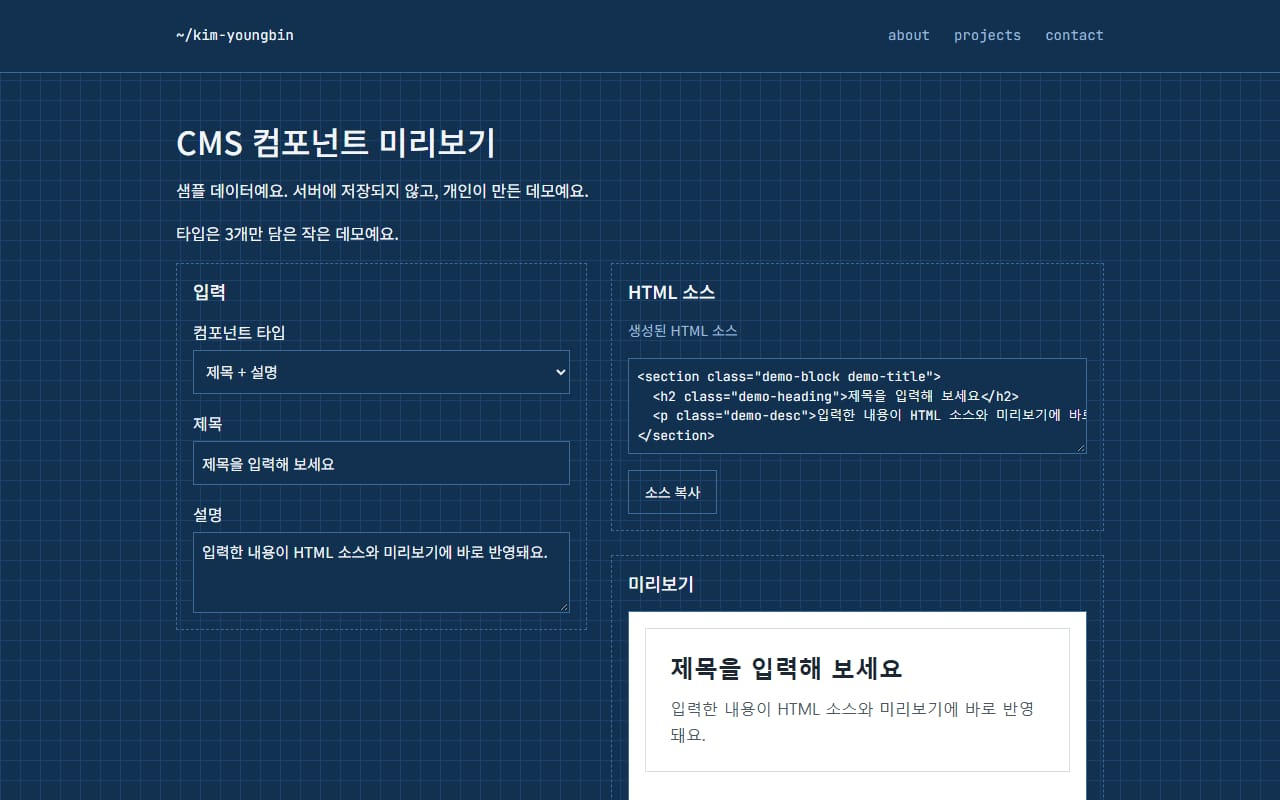
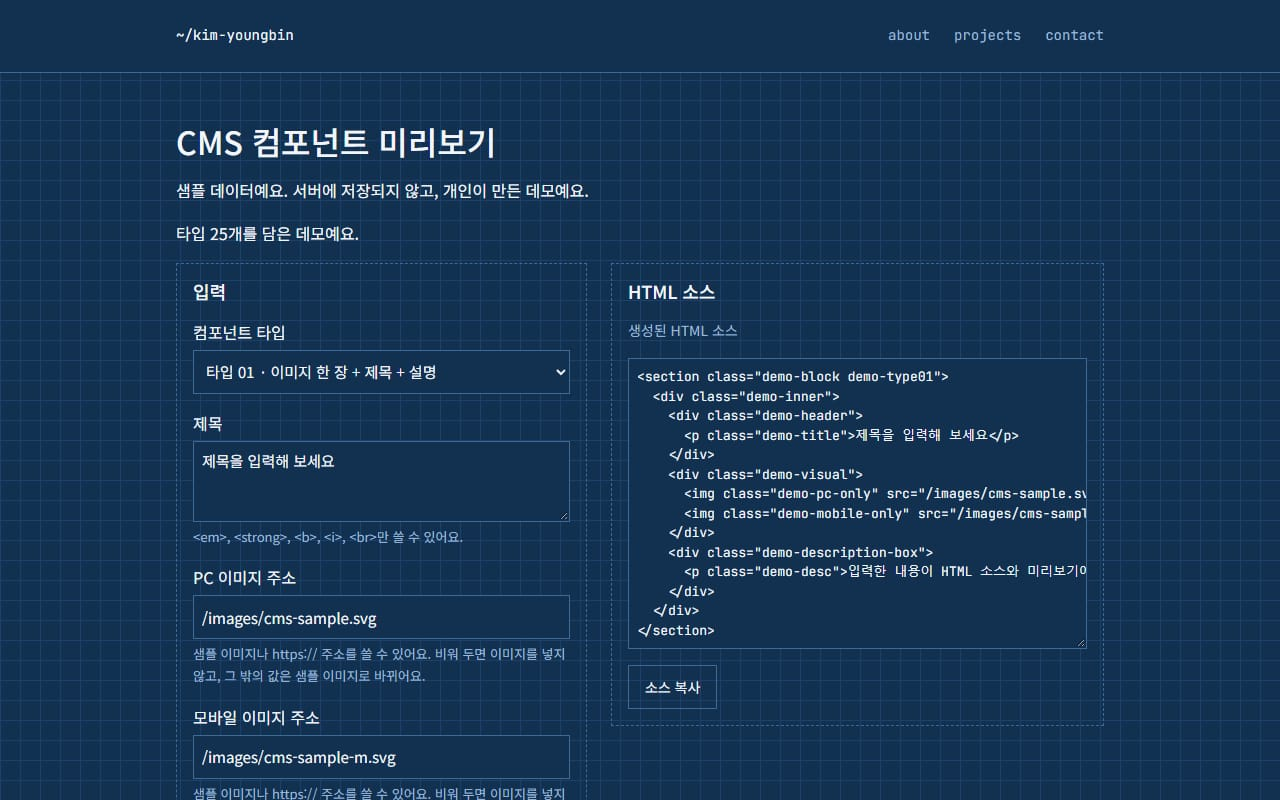
docs: update CMS demo wording for 25 types

diff --git a/app/cms-preview/page.tsx b/app/cms-preview/page.tsx
@@ -21,7 +21,7 @@ export default function CmsPreviewPage() {
     >
       <h1>CMS 컴포넌트 미리보기</h1>
       <p>샘플 데이터예요. 서버에 저장되지 않고, 개인이 만든 데모예요.</p>
-      <p>타입을 하나씩 늘려 가는 중인 데모예요.</p>
+      <p>타입 25개를 담은 데모예요.</p>
       <CmsPreview />
       <Link href="/">처음으로 돌아가기</Link>
     </main>

diff --git a/docs/decisions.md b/docs/decisions.md
@@ -101,3 +101,13 @@
 - **선택**: 이 사이트 안의 데모 두 개(`/cms-preview`, `/qa-dashboard`)는 로컬 프로덕션 빌드에서, 나머지 두 개(콘텐츠 발행 체크리스트, 접근성 마크업 점검기)는 각 공개 주소에서 1280×800으로 캡처해 JPEG(37~103KB)로 줄였어요. 대체 텍스트는 실제로 찍힌 화면을 보고 썼어요.
 - **확인**: 카드 8개 모두 이미지가 로드되고(320/1280px), 가로 넘침이 없어요.
 - **알게 된 것**: 콘텐츠 발행 체크리스트 도구의 큰 제목이 1280px에서 "체크리스"/"트"로 한 글자만 줄바꿈돼요(해당 도구 자체의 레이아웃). 점검 스크립트의 콘솔 "오류 4건"은 Next가 넣은 CSS preload 경고였고 사용자 화면에는 영향이 없어요.
+
+## 2026-10-14 CMS 컴포넌트 데모를 타입 25개로 확장
+
+- **무엇을**: `/cms-preview`를 원본 CMS 도구의 타입 25개(01~07, 09~26)를 담은 데모로 바꿨어요. 입력을 정의한 데이터(필드 종류: 글, 본문, 이미지, 선택, 반복 목록, 표)를 읽어 폼을 그리는 편집기 하나가 모든 타입을 맡고, 타입마다 "입력 정의 + 기본값 + 화면 + 레이아웃 CSS"를 한 파일에 둬요(`lib/cms/types/typeNN.tsx`).
+- **원본에서 가져온 것과 가져오지 않은 것**: 가져온 건 타입별 **입력 항목, 반복 구조, 선택 변형, 요소 중첩 구조**뿐이에요. 원본의 CSS, 클래스 이름, 문구, 이미지 주소, SVG 도형 경로, Supabase, 메뉴 관리자, 이미지 업로드, 타입 27·28은 가져오지 않았어요. 클래스는 `demo-`로, CSS와 문구는 새로 썼고, 도형(오각형, 육각형, 체크)은 CSS로 새로 그렸어요. 원본 소스는 저장소에 복사하지 않았고 읽기만 했어요.
+- **안전**: `rich` 필드(제목, 본문)만 HTML을 받고 항상 허용 태그(`em`, `strong`, `b`, `i`, `br`)만 남겨요. 나머지 값은 React가 이스케이프해요. 이미지 주소는 이 사이트 경로나 `https://`만 허용하고, 표의 열 너비는 `auto`, 숫자, 숫자+`px/%/rem`만 허용해요. 미리보기는 `sandbox=""`인 iframe이에요. 공격 입력(`<script>`, `onerror`, `javascript:`, `expression()`)을 넣어 브라우저에서 확인했어요.
+- **계획에서 고친 것**: ① 계획대로면 미리보기 iframe이 459px을 넘지 않아 PC 모습을 볼 수 없었어요. 미리보기를 두 열 아래 전체 폭으로 옮기고 "PC / 모바일(360px)" 전환을 넣었어요. ② React 19가 `<img>`가 있으면 렌더 결과 앞에 `<link rel="preload">`를 붙여서 복사하는 소스에 섞였어요. 테스트를 먼저 쓰고 앞쪽 `<link>`만 떼어 냈어요. ③ 선택 변형 중 03, 17, 18은 열 수가 아니라 방향, 제목 칸 폭, 글 스타일이라서 의미에 맞는 이름으로 썼어요.
+- **줄인 것 (타입 26 표)**: 원본 편집기는 병합과 해제까지 함수가 14개나 되는 큰 UI예요. 이 데모는 **칸 편집, 행·열 추가/삭제(맨 끝), 열 너비**를 지원하고, **칸 병합을 만드는 화면은 없어요.** 병합이 있는 표를 그리는 경로와 값 보정(`hidden`을 병합 범위로 다시 계산)은 구현하고 테스트했어요. 머리글은 1행으로 고정이에요.
+- **08번**: 원본 배포의 파일 목록에 `Type08`이 없어서 건너뛰었어요(의도된 결번인지는 확인하지 못했어요).
+- **하지 않은 것**: 실제 스크린 리더로 읽히는 소리 확인, 접근성 점수 측정.
